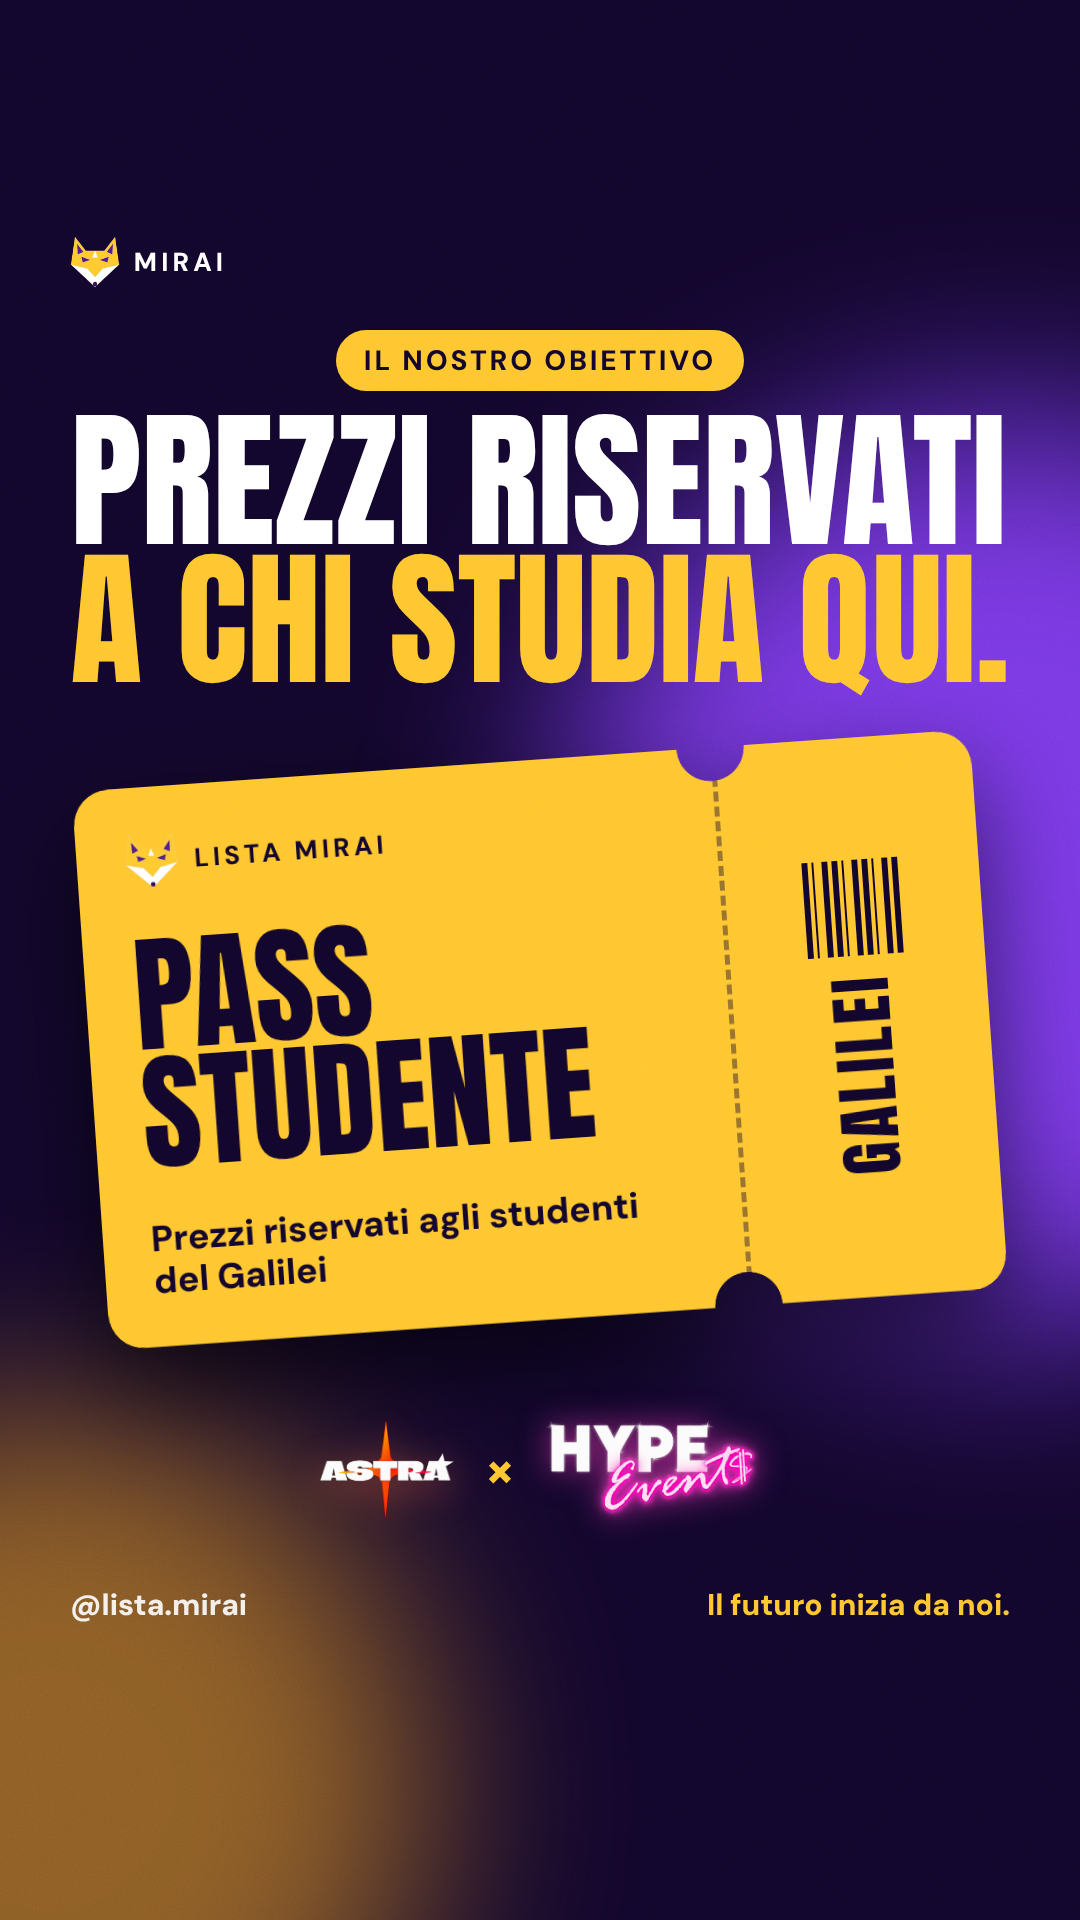
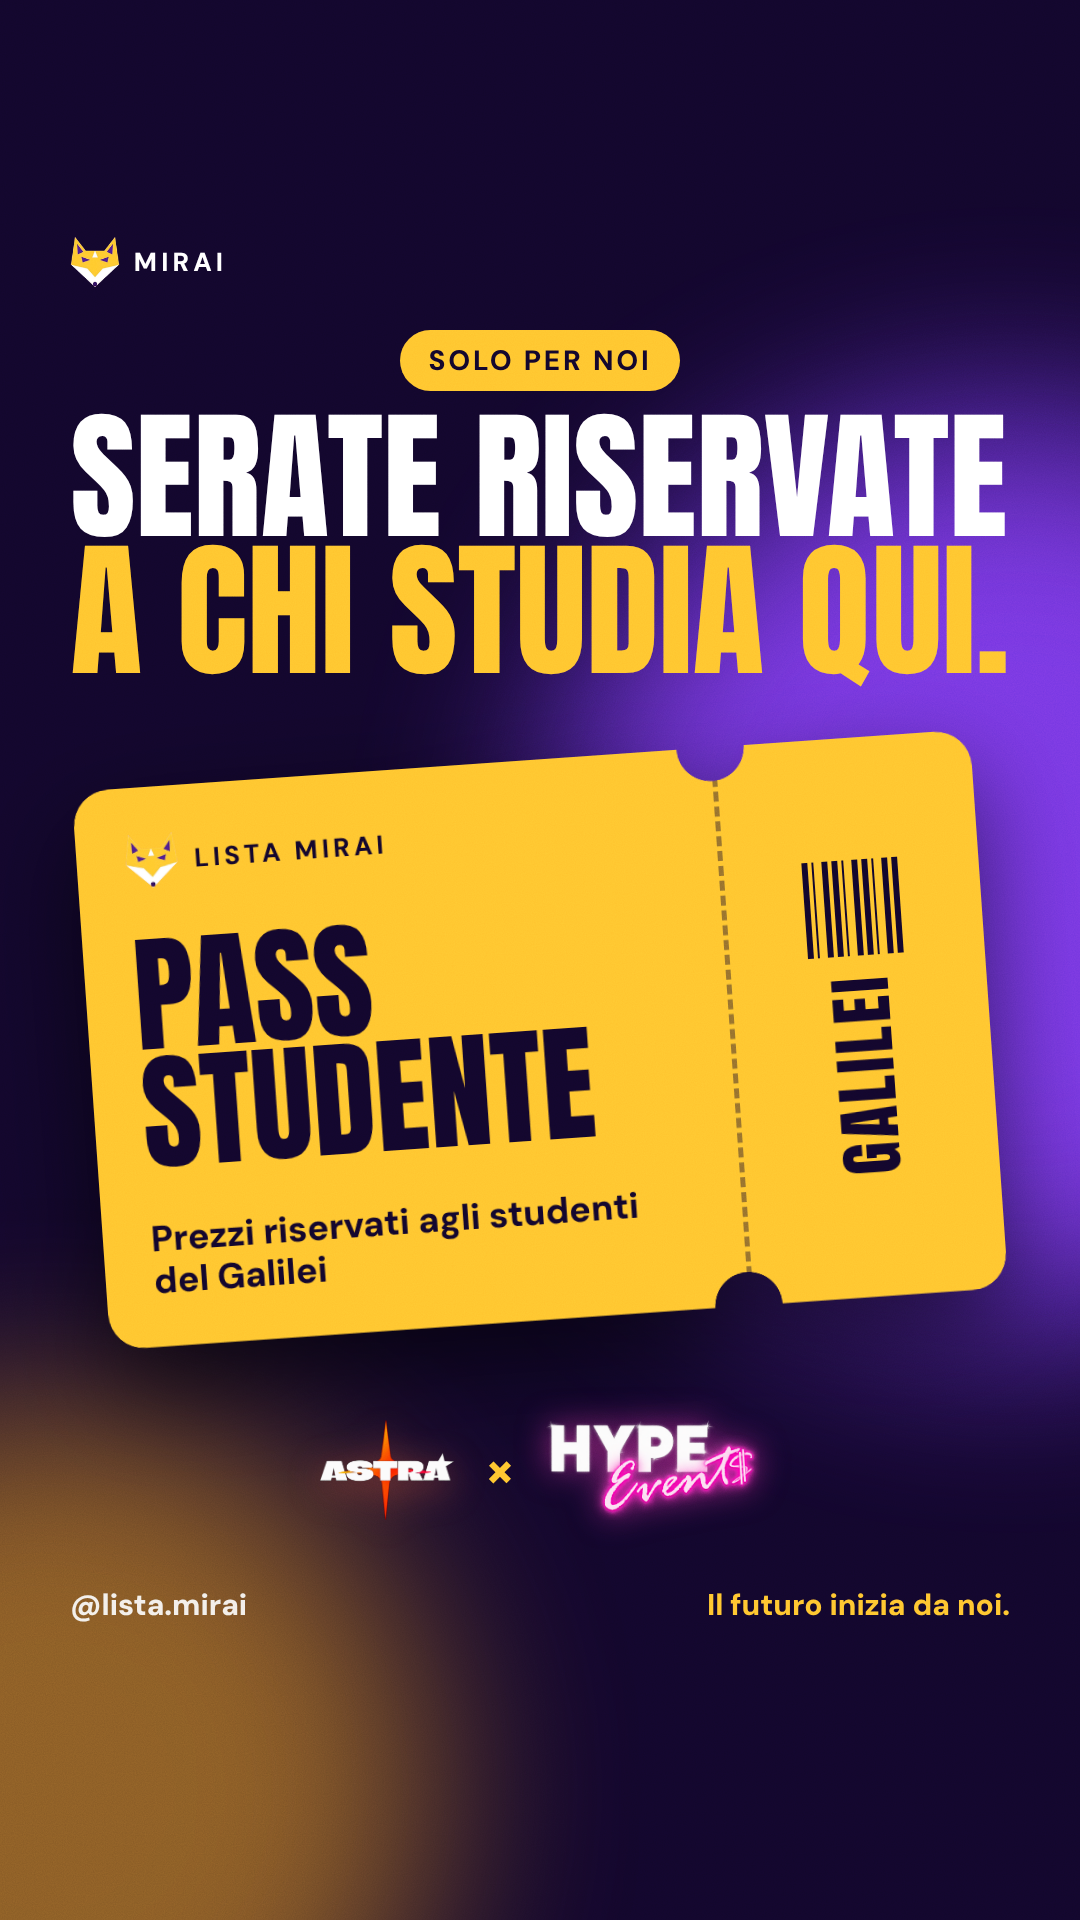
Storie eventi: tono curiosità, niente 'se ci eleggete'
Claude-Session: https://claude.ai/code/session_01GjWaSYZkqZzSe8a8dDrV6x

Changed region(s): [[0.0611, 0.1562, 0.9472, 0.375], [0.7639, 0.3438, 0.9167, 0.375], [0.275, 0.3438, 0.3056, 0.375]]

diff --git a/social/collab/collab.html b/social/collab/collab.html
@@ -89,13 +89,13 @@ body{background:#000;font-family:"DM Sans",sans-serif}
 
 <section class="st v0" id="s0"><div class="blob b1"></div><div class="blob b2"></div>
  <div class="s1">
-  <div class="bgw"><div>Proposta Proposta</div><div>Proposta Proposta</div><div>Proposta Proposta</div><div>Proposta Proposta</div><div>Proposta Proposta</div><div>Proposta Proposta</div></div>
+  <div class="bgw"><div>Riservato Riservato</div><div>Riservato Riservato</div><div>Riservato Riservato</div><div>Riservato Riservato</div><div>Riservato Riservato</div><div>Riservato Riservato</div></div>
   <div class="brand"><img src="../../assets/fox-96.png" alt="">Mirai</div>
-  <div class="mid" style="top:340px;bottom:380px"><span class="kick">La nostra proposta</span>
-   <div class="h A"><div class="w" data-box="900" data-max="190">Se ci eleggete</div><div class="g" data-box="900" data-max="300">serate</div><div class="o" data-box="900" data-max="150">per il Galilei</div></div>
-   <div class="sub" style="max-width:840px;font-size:46px">Con due organizzazioni di eventi di Roma.</div>
+  <div class="mid" style="top:340px;bottom:380px"><span class="kick">Collaborazione 👀</span>
+   <div class="h A"><div class="w" data-box="900" data-max="230">Serate</div><div class="g" data-box="900" data-max="270">riservate</div><div class="o" data-box="900" data-max="130">al nostro istituto</div></div>
+   <div class="sub" style="max-width:840px;font-size:46px">Stiamo preparando qualcosa con due team di eventi di Roma.</div>
    <div class="lock"><img src="astra.png" alt="Astra" style="filter:drop-shadow(0 8px 18px rgba(255,110,60,.4))"><span>×</span><img src="hype.png" alt="Hype Events" style="filter:drop-shadow(0 0 16px rgba(255,60,190,.6))"></div>
-   <span class="sticker" style="margin-top:20px">Rappresentanti d’istituto 🗳</span></div>
+   <span class="sticker" style="margin-top:20px">Indovini chi? 🤫</span></div>
   <div class="handle"><span>@lista.mirai</span><b>Il futuro inizia da noi.</b></div>
  </div>
 </section>
@@ -109,7 +109,7 @@ body{background:#000;font-family:"DM Sans",sans-serif}
   <div class="xx">×</div>
   <img class="big-h" src="hype.png" alt="Hype Events">
   <div class="spark" style="left:110px;top:760px">✦</div><div class="spark" style="right:100px;top:560px;font-size:100px">✦</div><div class="spark" style="right:150px;top:1330px">✦</div><div class="spark" style="left:150px;top:1180px;font-size:50px">✦</div>
-  <div class="foot2" style="position:absolute;left:70px;right:70px;top:1462px;z-index:9;text-align:center;font:800 40px/1.15 'DM Sans'">Due team di eventi di Roma.<br><span style="color:var(--gold)">Se ci eleggete, lavorano per noi.</span></div>
+  <div class="foot2" style="position:absolute;left:70px;right:70px;top:1462px;z-index:9;text-align:center;font:800 40px/1.15 'DM Sans'">Due team di eventi di Roma.<br><span style="color:var(--gold)">Una serata solo per il Galilei.</span></div>
   <div class="handle"><span>@lista.mirai</span><b>Il futuro inizia da noi.</b></div>
  </div>
 </section>
@@ -131,7 +131,7 @@ body{background:#000;font-family:"DM Sans",sans-serif}
 <section class="st v0" id="s3"><div class="blob b1"></div><div class="blob b2"></div>
  <div class="s3">
   <div class="brand"><img src="../../assets/fox-96.png" alt="">Mirai</div>
-  <div class="t1"><span class="kick">Il nostro obiettivo</span><div class="h A"><div class="w" data-box="940" data-max="190">Prezzi riservati</div><div class="g" data-box="940" data-max="190">a chi studia qui.</div></div></div>
+  <div class="t1"><span class="kick">Solo per noi</span><div class="h A"><div class="w" data-box="940" data-max="190">Serate riservate</div><div class="g" data-box="940" data-max="190">a chi studia qui.</div></div></div>
   <div class="ticket"><div class="tk">
     <div class="main"><div class="top"><img src="../../assets/fox-96.png" alt="">Lista Mirai</div>
      <div class="big">Pass<br>studente</div>
